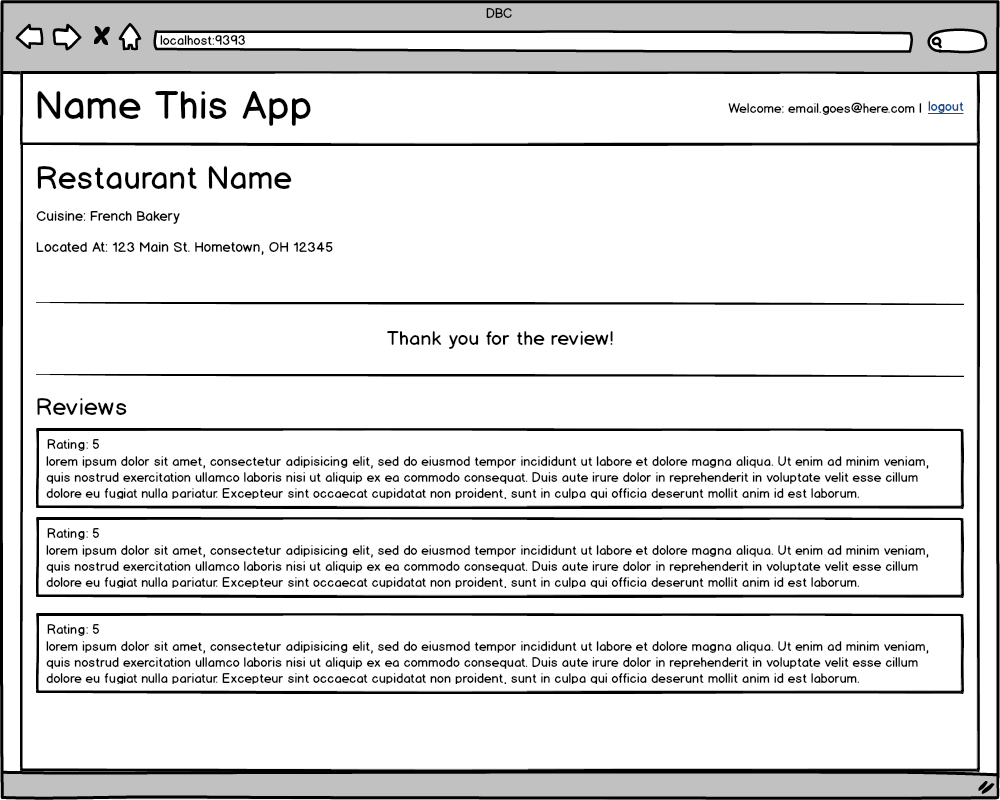
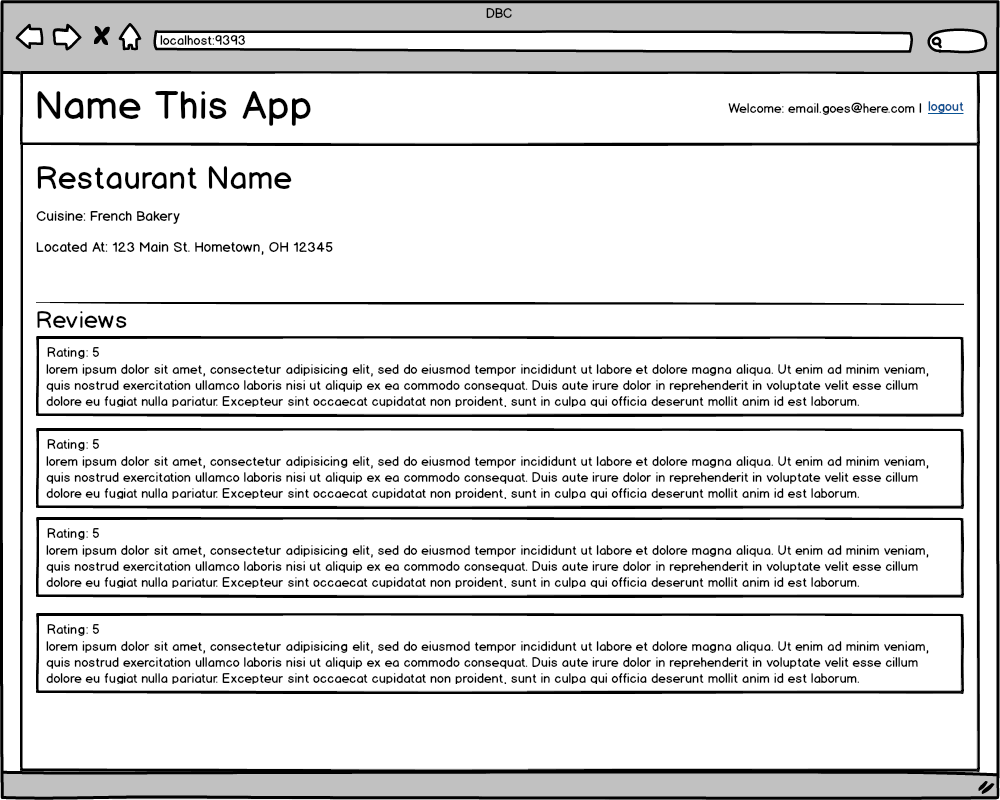
updates to review forms

Changed region(s): [[0.031, 0.375, 0.961, 0.5312]]

diff --git a/part-3/README.md b/part-3/README.md
@@ -99,7 +99,7 @@ When the user clicks on the logout link they should be taken to the home page an
 ![](mockups/login-link.png)
 
 ### Release 2: CRUD'ing a Resource
-We'll not give users the ability to add new restaurants to the site.
+We'll now give users the ability to add new restaurants to the site.
 
 #### Creating Restuarants
 _Given:_
@@ -191,7 +191,8 @@ _Given_
 * The user is on a restaurant detail page
 
 ------
-1. Add a section to the page requiring log in to review
+1. Add a button to the page requiring log in to review
+1. When the user clicks this button they should be taken to the same page as the login instructions above
 
 ![](mockups/not-logged-in-on-restaurant-page.png)
 
@@ -208,6 +209,7 @@ _Given_
   * the user should be returned to the restaurant page
   * the user should no longer see the form
   * the user should see a thank you message
+  * the thank you message will only be visible when being redirected to the restaurant details page after creating a review
 
 ![](mockups/restaurant-page-with-review-form.png)
 ![](mockups/restaurant-page-with-thank-you-message.png)
@@ -218,8 +220,12 @@ _Given_
 
 -----
 1. Show all the reviews for a restaurant
+  * Only Show the review form if the user has not created a review.
 
+_User reviewed restaurant_
 ![](mockups/restaurant-page-with-reviews-when-user-has-reviewed.png)
+
+_User has not reviewed restaurant_
 ![](mockups/restaurant-page-with-reviews-when-user-has-not-reviewed.png)
 
 ## Conclusion
